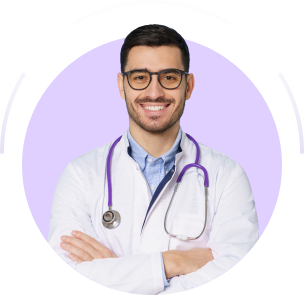
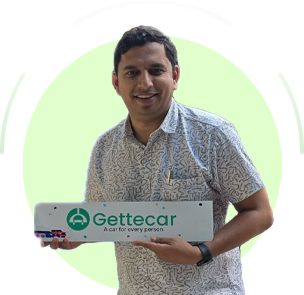
Team Section update

diff --git a/service.html b/service.html
@@ -542,14 +542,14 @@
         style="background-image: url('assets/images/shape/shape_tire_track_bg_2.png');">
         <div class="container">
           <div class="section_title text-center">
-            <h2 class="title_text mb-0"><span class="sub_title">Vehicle Care Team</span> Welcome To Our Family</h2>
+            <h2 class="title_text mb-0"><span class="sub_title">Team Gettecar</span> Meet Our Core Team</h2>
           </div>
           <div class="row justify-content-center">
             <div class="col col-lg-3 col-md-6 col-sm-6">
               <div class="team_item text-center">
                 <div class="item_image"><img src="assets/images/team/team_img_1.png" alt="Team Image"></div>
                 <div class="item_content">
-                  <h3 class="item_title">Cameron Rogers</h3><span class="item_designation">President & CEO</span>
+                  <h3 class="item_title">Lithin Kumar</h3><span class="item_designation">Founder, Gettecar</span>
                   <ul class="social_links unorder_list">
                     <li><a href="#!"><i class="fab fa-facebook-f"></i></a></li>
                     <li><a href="#!"><i class="fab fa-instagram"></i></a></li>
@@ -562,33 +562,7 @@
               <div class="team_item text-center">
                 <div class="item_image"><img src="assets/images/team/team_img_2.png" alt="Team Image"></div>
                 <div class="item_content">
-                  <h3 class="item_title">Irene Sotelo</h3><span class="item_designation">President & CEO</span>
-                  <ul class="social_links unorder_list">
-                    <li><a href="#!"><i class="fab fa-facebook-f"></i></a></li>
-                    <li><a href="#!"><i class="fab fa-instagram"></i></a></li>
-                    <li><a href="#!"><i class="fab fa-twitter"></i></a></li>
-                  </ul>
-                </div>
-              </div>
-            </div>
-            <div class="col col-lg-3 col-md-6 col-sm-6">
-              <div class="team_item text-center">
-                <div class="item_image"><img src="assets/images/team/team_img_3.png" alt="Team Image"></div>
-                <div class="item_content">
-                  <h3 class="item_title">Cameron Rogers</h3><span class="item_designation">President & CEO</span>
-                  <ul class="social_links unorder_list">
-                    <li><a href="#!"><i class="fab fa-facebook-f"></i></a></li>
-                    <li><a href="#!"><i class="fab fa-instagram"></i></a></li>
-                    <li><a href="#!"><i class="fab fa-twitter"></i></a></li>
-                  </ul>
-                </div>
-              </div>
-            </div>
-            <div class="col col-lg-3 col-md-6 col-sm-6">
-              <div class="team_item text-center">
-                <div class="item_image"><img src="assets/images/team/team_img_4.png" alt="Team Image"></div>
-                <div class="item_content">
-                  <h3 class="item_title">Tiontay Carroll</h3><span class="item_designation">President & CEO</span>
+                  <h3 class="item_title">Thimmaiah P M</h3><span class="item_designation">Business Head</span>
                   <ul class="social_links unorder_list">
                     <li><a href="#!"><i class="fab fa-facebook-f"></i></a></li>
                     <li><a href="#!"><i class="fab fa-instagram"></i></a></li>

diff --git a/index.html b/index.html
@@ -759,14 +759,14 @@
       <section class="team_section section_space_lg">
         <div class="container">
           <div class="section_title text-center">
-            <h2 class="title_text mb-0"><span class="sub_title">Vehicle Care Team</span> Meet Our Family</h2>
+            <h2 class="title_text mb-0"><span class="sub_title">Team Gettecar</span> Meet Our Core Team</h2>
           </div>
           <div class="row justify-content-center">
             <div class="col col-lg-3 col-md-6 col-sm-6">
               <div class="team_item text-center">
                 <div class="item_image"><img src="assets/images/team/team_img_1.png" alt="Team Image"></div>
                 <div class="item_content">
-                  <h3 class="item_title">Cameron Rogers</h3><span class="item_designation">President & CEO</span>
+                  <h3 class="item_title">Lithin Kumar</h3><span class="item_designation">Founder, Gettecar</span>
                   <ul class="social_links unorder_list">
                     <li><a href="#!"><i class="fab fa-facebook-f"></i></a></li>
                     <li><a href="#!"><i class="fab fa-instagram"></i></a></li>
@@ -779,33 +779,7 @@
               <div class="team_item text-center">
                 <div class="item_image"><img src="assets/images/team/team_img_2.png" alt="Team Image"></div>
                 <div class="item_content">
-                  <h3 class="item_title">Irene Sotelo</h3><span class="item_designation">President & CEO</span>
-                  <ul class="social_links unorder_list">
-                    <li><a href="#!"><i class="fab fa-facebook-f"></i></a></li>
-                    <li><a href="#!"><i class="fab fa-instagram"></i></a></li>
-                    <li><a href="#!"><i class="fab fa-twitter"></i></a></li>
-                  </ul>
-                </div>
-              </div>
-            </div>
-            <div class="col col-lg-3 col-md-6 col-sm-6">
-              <div class="team_item text-center">
-                <div class="item_image"><img src="assets/images/team/team_img_3.png" alt="Team Image"></div>
-                <div class="item_content">
-                  <h3 class="item_title">Cameron Rogers</h3><span class="item_designation">President & CEO</span>
-                  <ul class="social_links unorder_list">
-                    <li><a href="#!"><i class="fab fa-facebook-f"></i></a></li>
-                    <li><a href="#!"><i class="fab fa-instagram"></i></a></li>
-                    <li><a href="#!"><i class="fab fa-twitter"></i></a></li>
-                  </ul>
-                </div>
-              </div>
-            </div>
-            <div class="col col-lg-3 col-md-6 col-sm-6">
-              <div class="team_item text-center">
-                <div class="item_image"><img src="assets/images/team/team_img_4.png" alt="Team Image"></div>
-                <div class="item_content">
-                  <h3 class="item_title">Tiontay Carroll</h3><span class="item_designation">President & CEO</span>
+                  <h3 class="item_title">Thimmaiah P M</h3><span class="item_designation">Business Head</span>
                   <ul class="social_links unorder_list">
                     <li><a href="#!"><i class="fab fa-facebook-f"></i></a></li>
                     <li><a href="#!"><i class="fab fa-instagram"></i></a></li>
